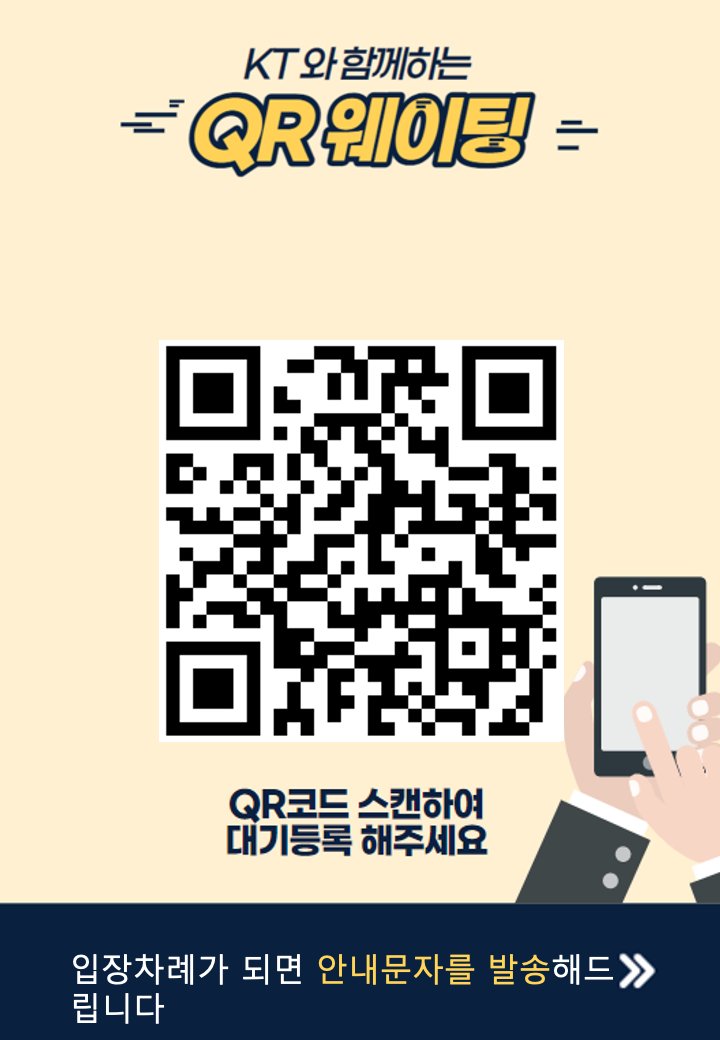
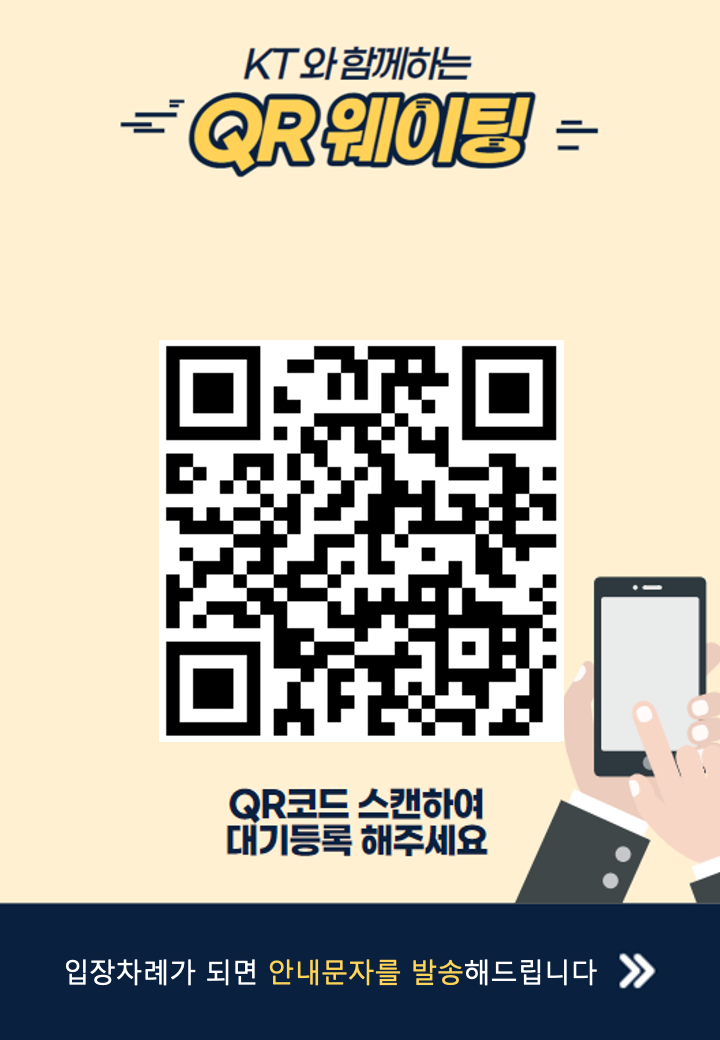
큐알코드 생성 부분 css 오류 수정

Changed region(s): [[0.0917, 0.8923, 0.8556, 0.9846]]

diff --git a/qrsignup/src/generate/Generate.css b/qrsignup/src/generate/Generate.css
@@ -1,30 +1,59 @@
-.Div1 {
-  width:100%;
-  height:100%;
+.All {
   display: flex;
-  position: relative;
-  justify-content: center;
-  align-items: center;
   text-align: center;
+  justify-content: center;
   background-color: white;
 }
 
+.Div1 {
+  width: 719px;
+  height:1024px;
+  position: relative;
+  display: flex;
+  flex-direction: column;
+  justify-content: center;
+  align-items: center;
+  text-align: center;
+}
+
 .Div1 img {
-  width: 670px;
+  position: absolute;
+  width: 100%;
   height: 100%;
+  z-index: 1;
 }
 
-#mountNode {
-  height: 34%;
-  position: absolute;
+.Upper {
+  height: 19.8%;
+  width: 100%;
 }
 
+.Titlepart {
+  height: 12.8%;
+  width: 100%;
+  z-index: 5;
+}
 .Store {
-  height: 58%;
-  position: absolute;
+  height:100%;
+  width:100%;
   font-weight: 600;
   font-size: 48px;
+  z-index: 6;
+  color: black;
 }
+
+.mountNode {
+  height: 39.4%;
+  width: 100%;
+  z-index: 3;
+}
+
+.nothing {
+  height: 28%;
+  width:100%;
+}
+
+
 
 @media all and (min-width:768px) and (max-width:1023px) {
   /*스타일입력*/

diff --git a/qrsignup/src/generate/Generate.js b/qrsignup/src/generate/Generate.js
@@ -7,10 +7,14 @@ import { storeName } from '../register/Register';
 function Generate() {
   console.log(storeName);
   return (
+    <div className='All'>
     <div className="Div1">
       <img src={poster}></img>
-      <div id="mountNode"><QRCode value={"https://qr-waiting-client.netlify.app/" + pin} renderAs="canvas" size={370}/></div>
-      <h1 className="Store">{storeName}</h1>
+        <div className='Upper'></div>
+        <div className='Titlepart'><div className="Store">{storeName}</div></div>
+        <div className='mountNode'><QRCode value={"https://qr-waiting-client.netlify.app/" + pin} renderAs="canvas" size={404}/></div>
+        <div className='nothing'></div>
+    </div>
     </div>
   );
 }
